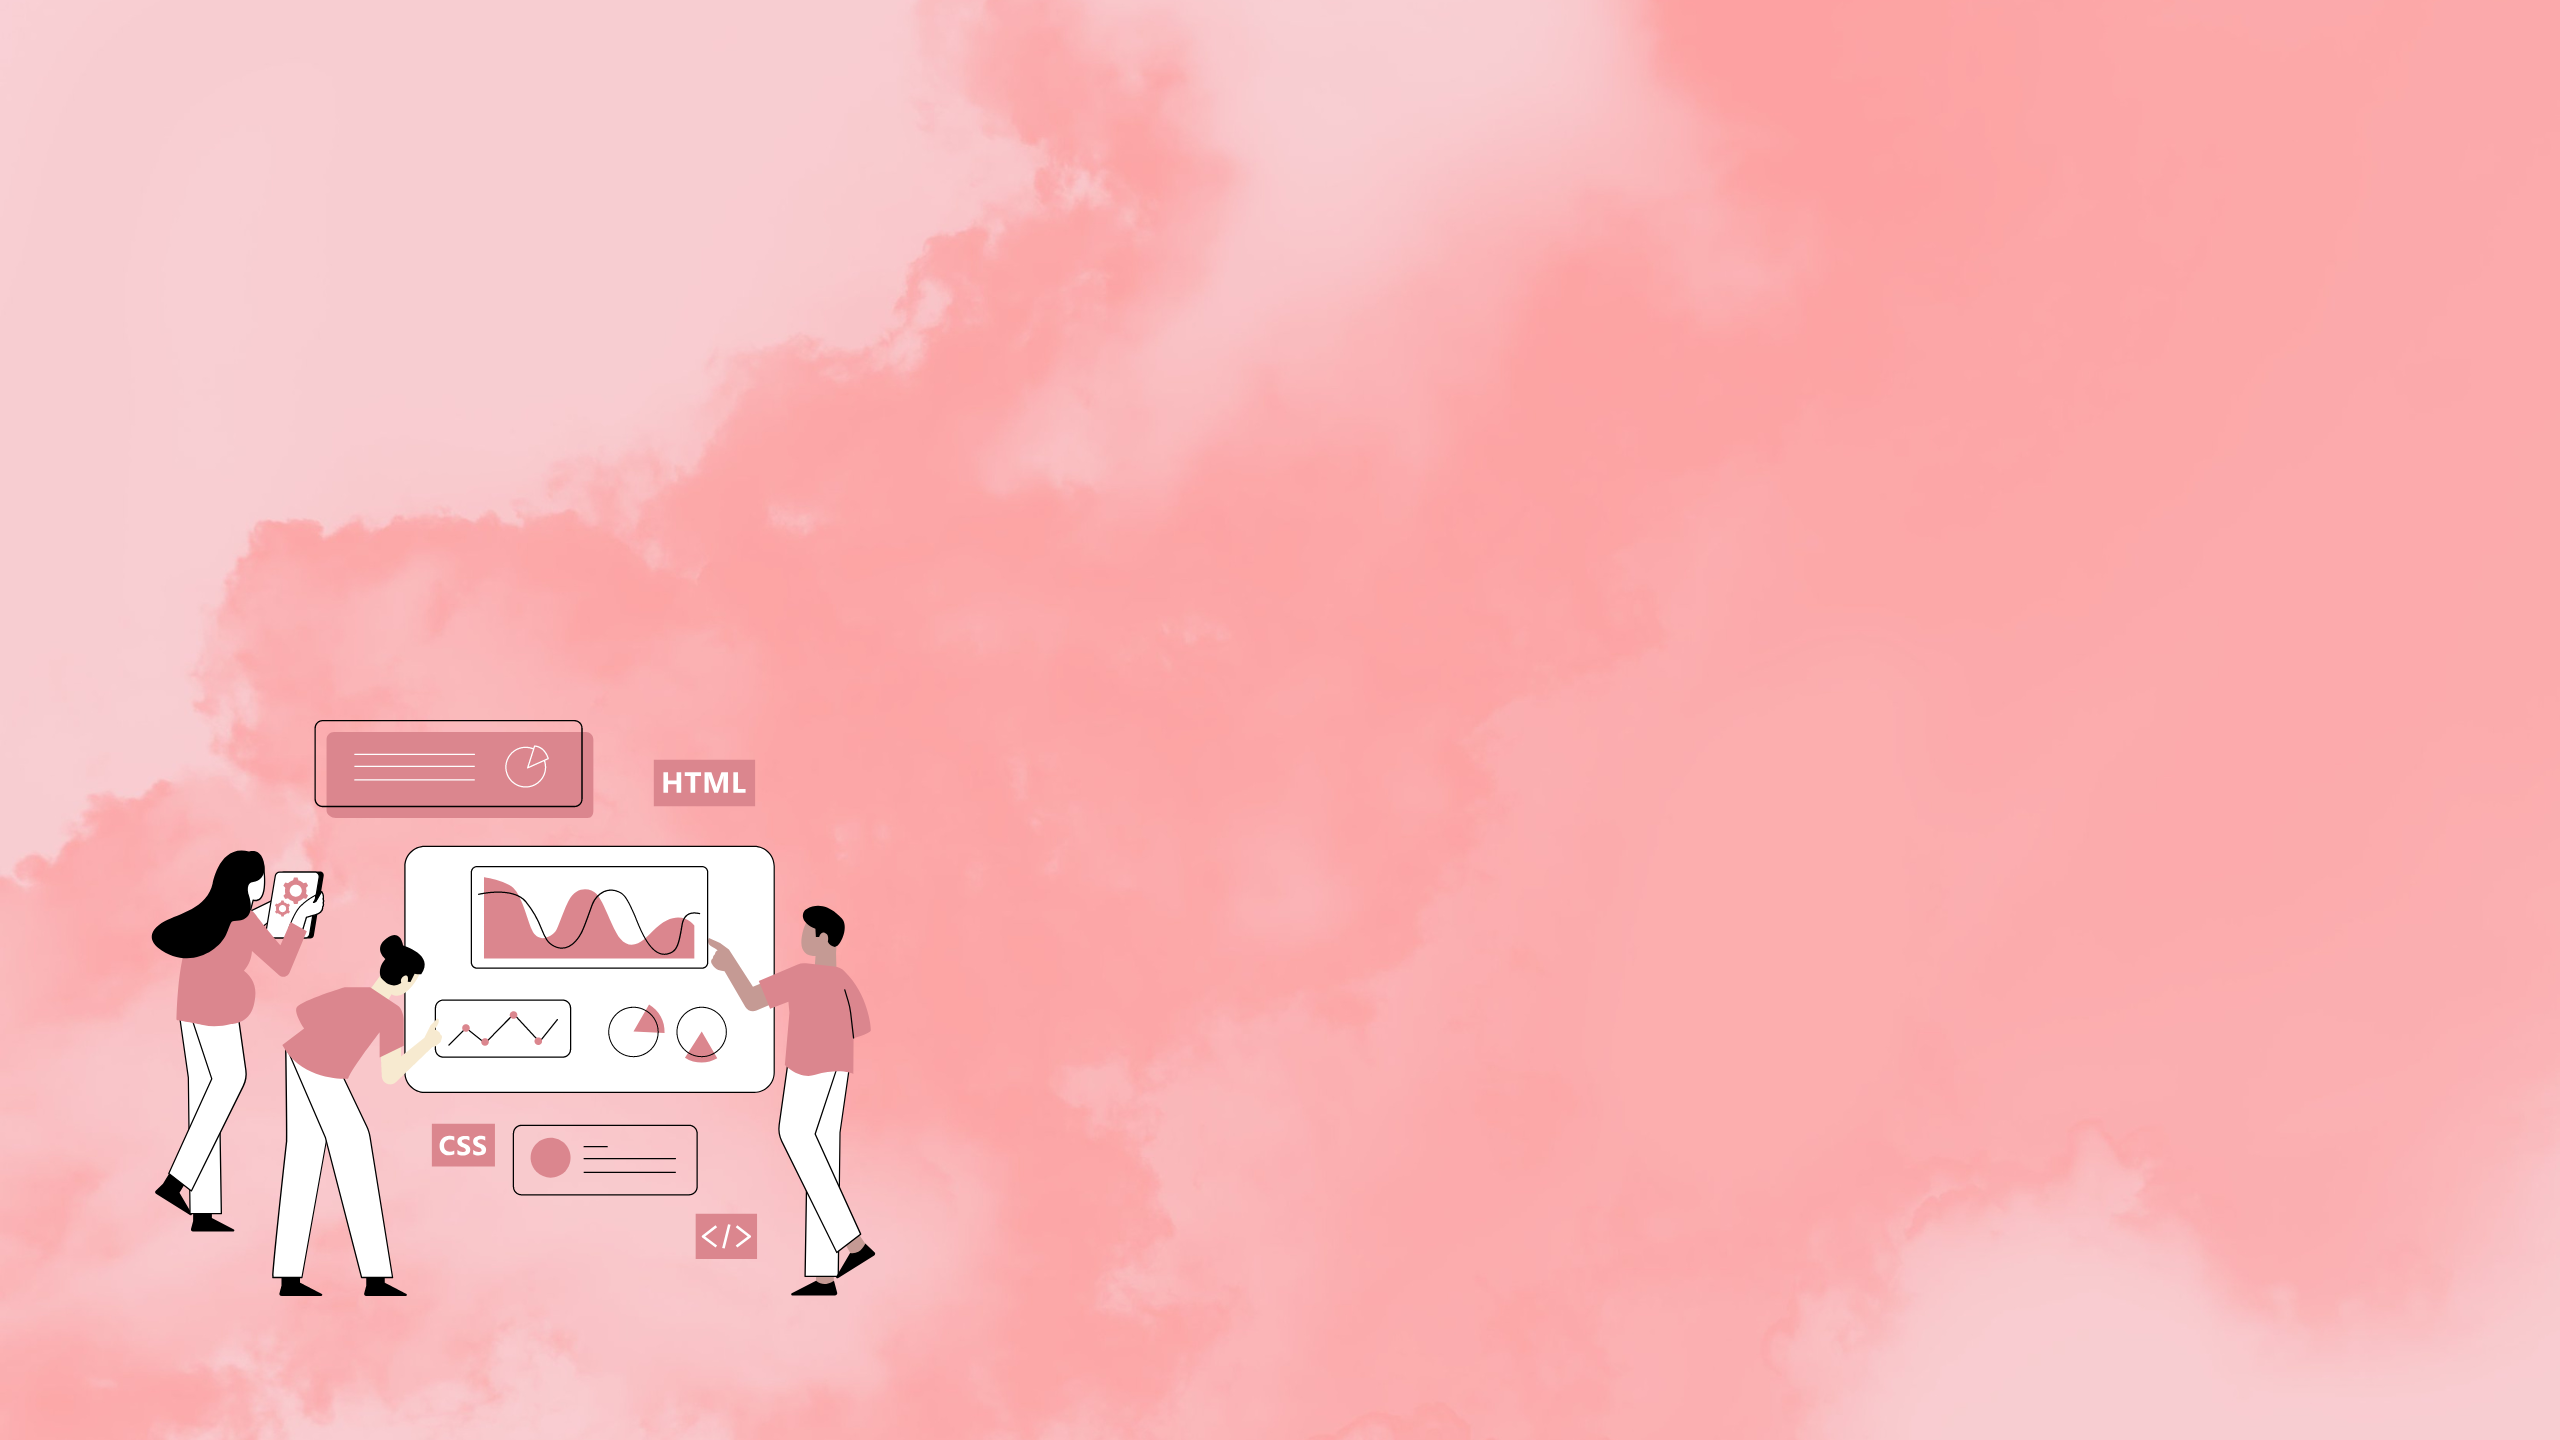
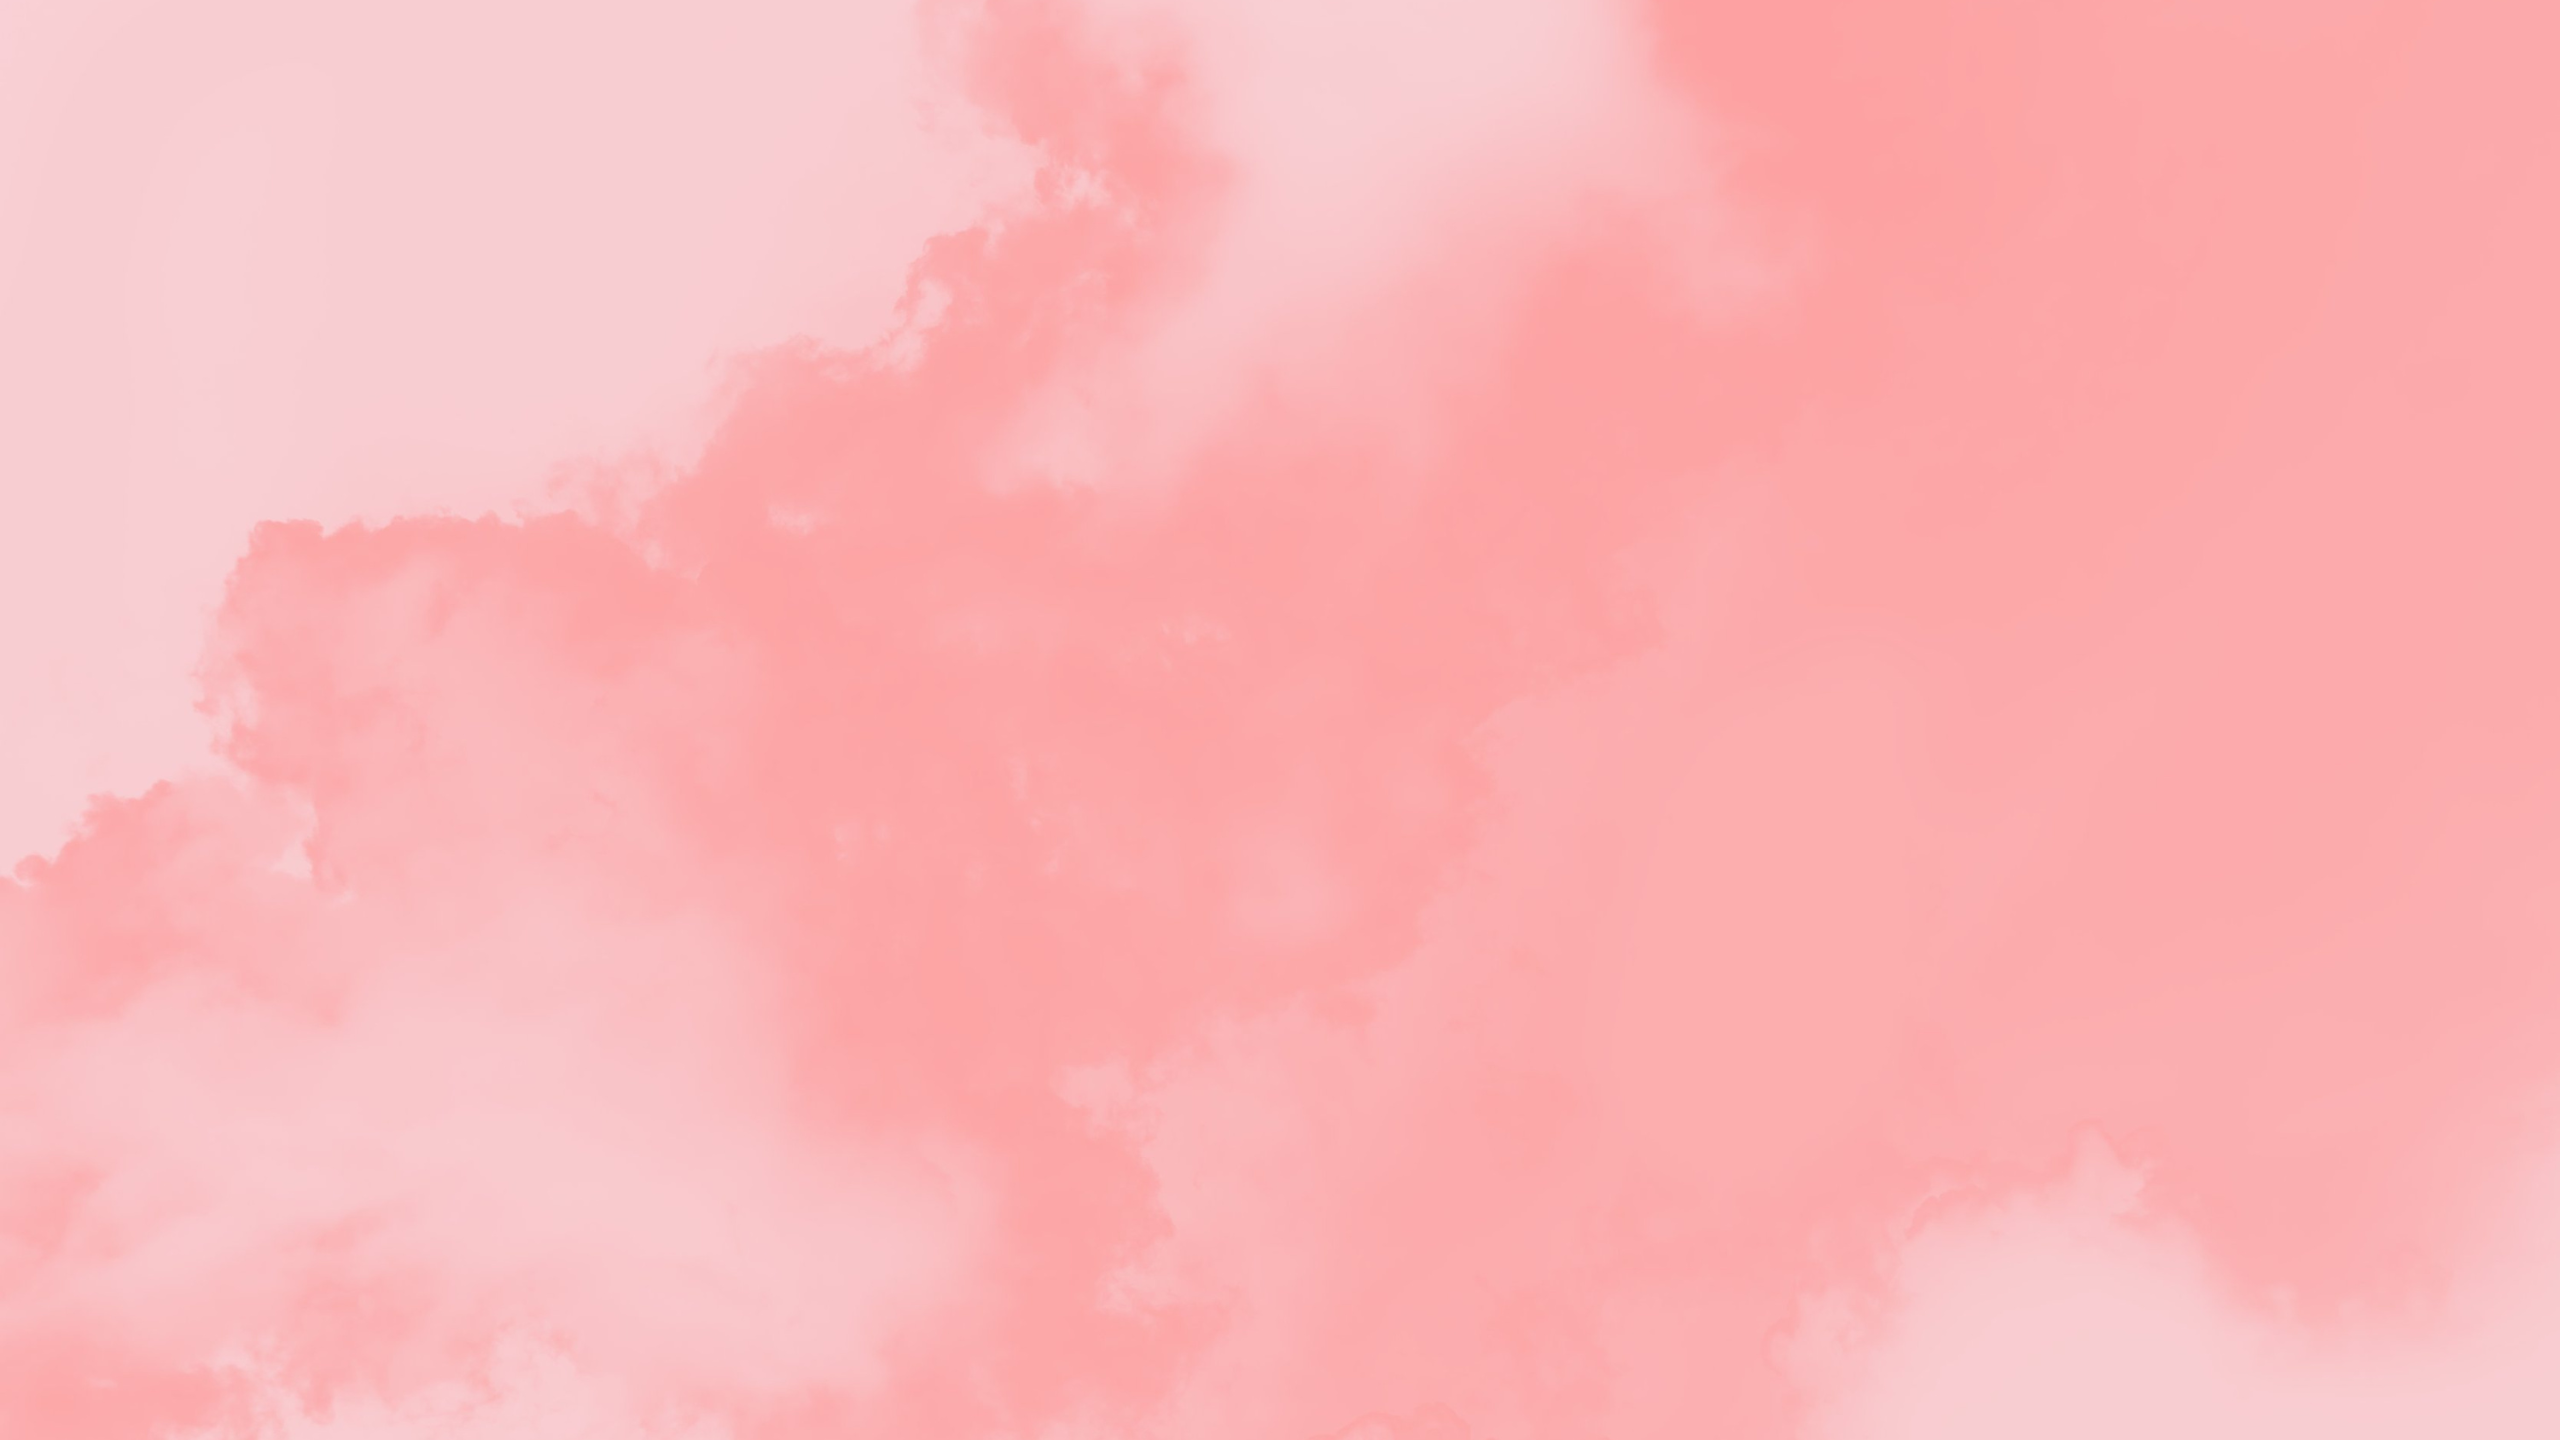
'About'

Changed region(s): [[0.0625, 0.5, 0.3438, 0.9062]]

diff --git a/index.html b/index.html
@@ -11,69 +11,87 @@
   <script src="https://kit.fontawesome.com/df1c7ce5bc.js" crossorigin="anonymous"></script>
   <link href="https://fonts.googleapis.com/css2?family=Open+Sans:wght@400;700&display=swap" 
   rel="stylesheet">
+  <link rel="preconnect" href="https://fonts.googleapis.com">
+  <link rel="preconnect" href="https://fonts.gstatic.com" crossorigin>
+  <link href="https://fonts.googleapis.com/css2?family=Poor+Story&display=swap" rel="stylesheet">
   <link rel="stylesheet" href="css/style.css">
+
   <script src="js/main.js" defer></script>
 </head>
 <body>
-  <!-- Navbar -->
-  <nav id="navbar">
-    <div class="navbar__logo">
-      <img src="./img/logo.png" alt="logo">
-      <a href="#">Kyungmi</a>
-    </div>
-    <div>
-      <ul class="navbar__menu">
-        <li class="navbar__menu__item">Home</li>
-        <li class="navbar__menu__item">About</li>
-        <li class="navbar__menu__item">Skills</li>
-        <li class="navbar__menu__item">Projects</li>
-        <li class="navbar__menu__item">Contact</li>
-      </ul>
-    </div>
+  <div class="home-container">
 
-  </nav>
+    <!-- Header -->
+    <header>
+      <div class="logo">
+        <img src="./img/sun.png" alt="logo">
+        <a href="#">Kyungmi's Portfolio</a>
+      </div>
+      <div class="nav">
+        <ul>
+          <li class="active">Home</li>
+          <li>About</li>
+          <li>Skills</li>
+          <li>Projects</li>
+          <li>Contact</li>
+        </ul>
+      </div>
+    </header>
+  
+    <!-- Home -->
+    <section class="home">
+      <img src="./img/m3.JPG" alt="">
+      <h1>안녕하세요! 꾸준히 성장하는 개발자 구경미 입니다⭐</h1>
+      <p>💻 Front-end Developer 👩💼</p>
+      <button class="home-contact">Contact</button>
+    </section>
 
-  <!-- Home -->
-  <section id="home">
-    <img src="./img/m2.jpeg" alt="">
-    <h1>안녕하세요! 성장하는 개발자 구경미 입니다⭐</h1>
-    <h2>Front-end Developer</h2>
-    <button class="home__contact">Contact</button>
-  </section>
+  </div>
+  
   <!-- About -->
-  <section id="about">
+  <section class="about">
     <h1>About me</h1>
     <ul>
       <li>
-        새로운 기술 스택에 관심이 많고 배우는 걸 좋아합니다.
+        🔸 <span>새로운 기술 스택</span>에 관심이 많고 배우는 걸 좋아합니다.
       </li>
       <li>
-        React 개발 환경에 관심이 많고
-        이를 활용해 개발하는 것에 흥미를 느낍니다. 
+        🔸 <span>React</span> 개발 환경에 관심이 많고
+        이를 활용해 개발하는 것에 <span>흥미</span>를 느낍니다. 
       </li>
       <li>
-        더 좋은 협업에 대해 고민하고, 
-        더 좋은 코드 퀄리티를 위해 노력하고 있습니다.
+        🔸 <span>더 좋은 협업</span>에 대해 고민하고, 
+        <span>더 좋은 코드 퀄리티</span>를 위해 노력하고 있습니다.
       </li>
       <li>
-        팀을 위해 해야할 일을 스스로 찾고,
-        팀에게 도움이 되는 일을 할 때 뿌듯함을 느낍니다.
+        🔸 팀을 위해 해야할 일을 <span>스스로 찾고,</span>
+        팀에게 <span>도움이 되는 일</span>을 할 때 <span>뿌듯함</span>을 느낍니다.
       </li>
     </ul>
-    <div class="about__majors">
+    <div class="about-majors">
       <div class="major">
-        <div class="major__icon">
+        <div class="major-icon">
           <i class="fa-brands fa-html5"></i>
         </div>
-        <div class="major__title"></div>
-        <div class="major__description"></div>
+        <div class="major-title">
+          Front-end
+        </div>
+        <div class="major-description">
+          HTML, CSS, JavaScript, TypeScript, <br>
+          React, Vue.js, Next.js, Svelte
+        </div>
       </div>
       <div class="major">
-        <div class="major__icon">
+        <div class="major-icon">
           <i class="fa-solid fa-database"></i>
         </div>
-        <div class="major__title"></div>
-        <div class="major__description"></div>
+        <div class="major-title">
+          Back-end
+        </div>
+        <div class="major-description">
+          Java, JavaScript, JSP / Servlet, <br>
+          Node.js, Oracle, Tomcat
+        </div>
       </div>
     </div>
   </section>

diff --git a/css/style.css b/css/style.css
@@ -1,0 +1,208 @@
+/* Global */
+
+:root {
+  /* Color */
+  --color-white: #ffffff;
+  --color-light-white: #eeeeee;
+  --color-dark-white: #bdbdbd;
+  --color-pink: #F58DA6;
+  --color-dark-pink: #ff6863;
+  --color-dark-grey: #4d4d4d;
+  --color-grey: #616161;
+  --color-light-grey: #7c7979;
+  --color-blue: #60B3F7;
+  --color-yellow: #fff7d1;
+  --color-orange: #E88B4A;
+  --color-black: #000000;
+
+  /* Font size */
+  --font-large: 48px;
+  --font-medium: 28px;
+  --font-regular: 24px;
+  --font-small: 18px;
+  --font-micro: 16px;
+
+  /* Font weight */
+  --weight-bold: 700;
+  --weight-semi-bold: 600;
+  --weight-regular: 400;
+
+  /* Size */
+  --size-border-radius: 5px;
+
+  /* Animation */
+  --animation-duration: 300ms;
+
+}
+
+* {
+  padding: 0;
+  margin: 0;
+  box-sizing: border-box;
+}
+
+ul, ol, li {
+  list-style: none;
+}
+
+a {
+  text-decoration: none;
+  color: var(--color-white);
+}
+
+body {
+  cursor: default;
+  font-family: 'Poor Story', cursive;
+  letter-spacing: 1px;
+}
+
+button {
+  background-color: transparent;
+  cursor: pointer;
+  border: none;
+  outline: none;
+  font-family: 'Poor Story', cursive;
+  letter-spacing: 1px;
+}
+
+
+/* Home-Container */
+.home-container {
+  background-image: url("/img/bg.png");
+  background-size: cover;
+  background-position-y: bottom;
+  height: 100vh;
+}
+
+
+/* Header */
+header {
+  display: flex;
+  justify-content: space-between;
+  align-items: center;
+  color: var(--color-white);
+}
+header .logo {
+  display: flex;
+}
+header .logo img {
+  width: 80px;
+  height: 80px;
+  margin: 15px 20px;
+}
+header .logo a {
+  font-size: var(--font-medium);
+  line-height: 110px;
+}
+.nav {
+  margin-right: 50px;
+}
+.nav ul {
+  display: flex;
+}
+.nav ul li {
+  padding: 8px 12px;
+  margin: 0 4px;
+  cursor: pointer;
+  border-radius: var(--size-border-radius);
+  font-size: var(--font-small);
+}
+.nav ul li.active {
+  border: 1px solid var(--color-white);
+}
+.nav ul li:hover {
+  background-color: var(--color-pink);
+  border: 1px solid var(--color-white);
+}
+
+/* Home */
+.home {
+  text-align: center;
+  color: var(--color-white);
+}
+.home h1 {
+  letter-spacing: 2px;
+}
+.home p {
+  letter-spacing: 2px;
+  font-size: var(--font-medium);
+  margin: 10px 0;
+}
+.home img {
+  width: 250px;
+  border-radius: 30%;
+  border: 2px solid var(--color-pink);
+  margin: 50px 0 20px 0;
+}
+.home button {
+  border-radius: var(--size-border-radius);
+  font-size: var(--font-micro);
+  border: 1px solid var(--color-white);
+  padding: 8px 12px;
+  margin-top: 20px;
+  color: var(--color-white);
+}
+.home button:hover {
+  background-color: var(--color-blue);
+}
+
+
+/* About */
+.about {
+  height: 100vh;
+  border-top: 1px solid var(--color-pink);
+  text-align: center;
+  padding: 50px;
+}
+.about h1 {
+  font-size: var(--font-large);
+  margin-bottom: 24px;
+  color: var(--color-dark-grey);
+}
+.about ul li {
+  font-size: var(--font-small);
+  line-height: 40px;
+  color: var(--color-blue);
+}
+.about ul li span {
+  color: var(--color-pink);
+}
+.about-majors {
+  display: flex;
+  justify-content: space-between;
+  margin: 100px 200px;
+}
+.major {
+  margin: 0 70px;
+}
+.major-icon {
+  width: 170px;
+  height: 170px;
+  line-height: 170px;
+  font-size: 100px;
+  margin: auto;
+  border: 1px solid var(--color-blue);
+  border-radius: 50%;
+  margin-bottom: 16px;
+}
+.major-icon i.fa-html5 {
+  color: var(--color-orange);
+  margin-top: 35px;
+}
+.major-icon i.fa-database {
+  color: var(--color-blue);
+  margin-top: 33px;
+}
+.major-title,
+.major-description {
+  color: var(--color-dark-grey);
+  
+}
+.major-title {
+  font-size: var(--font-medium);
+  font-weight: var(--weight-semi-bold);
+  margin: 15px 0;
+}
+.major-description {
+  font-size: var(--font-small);
+}
